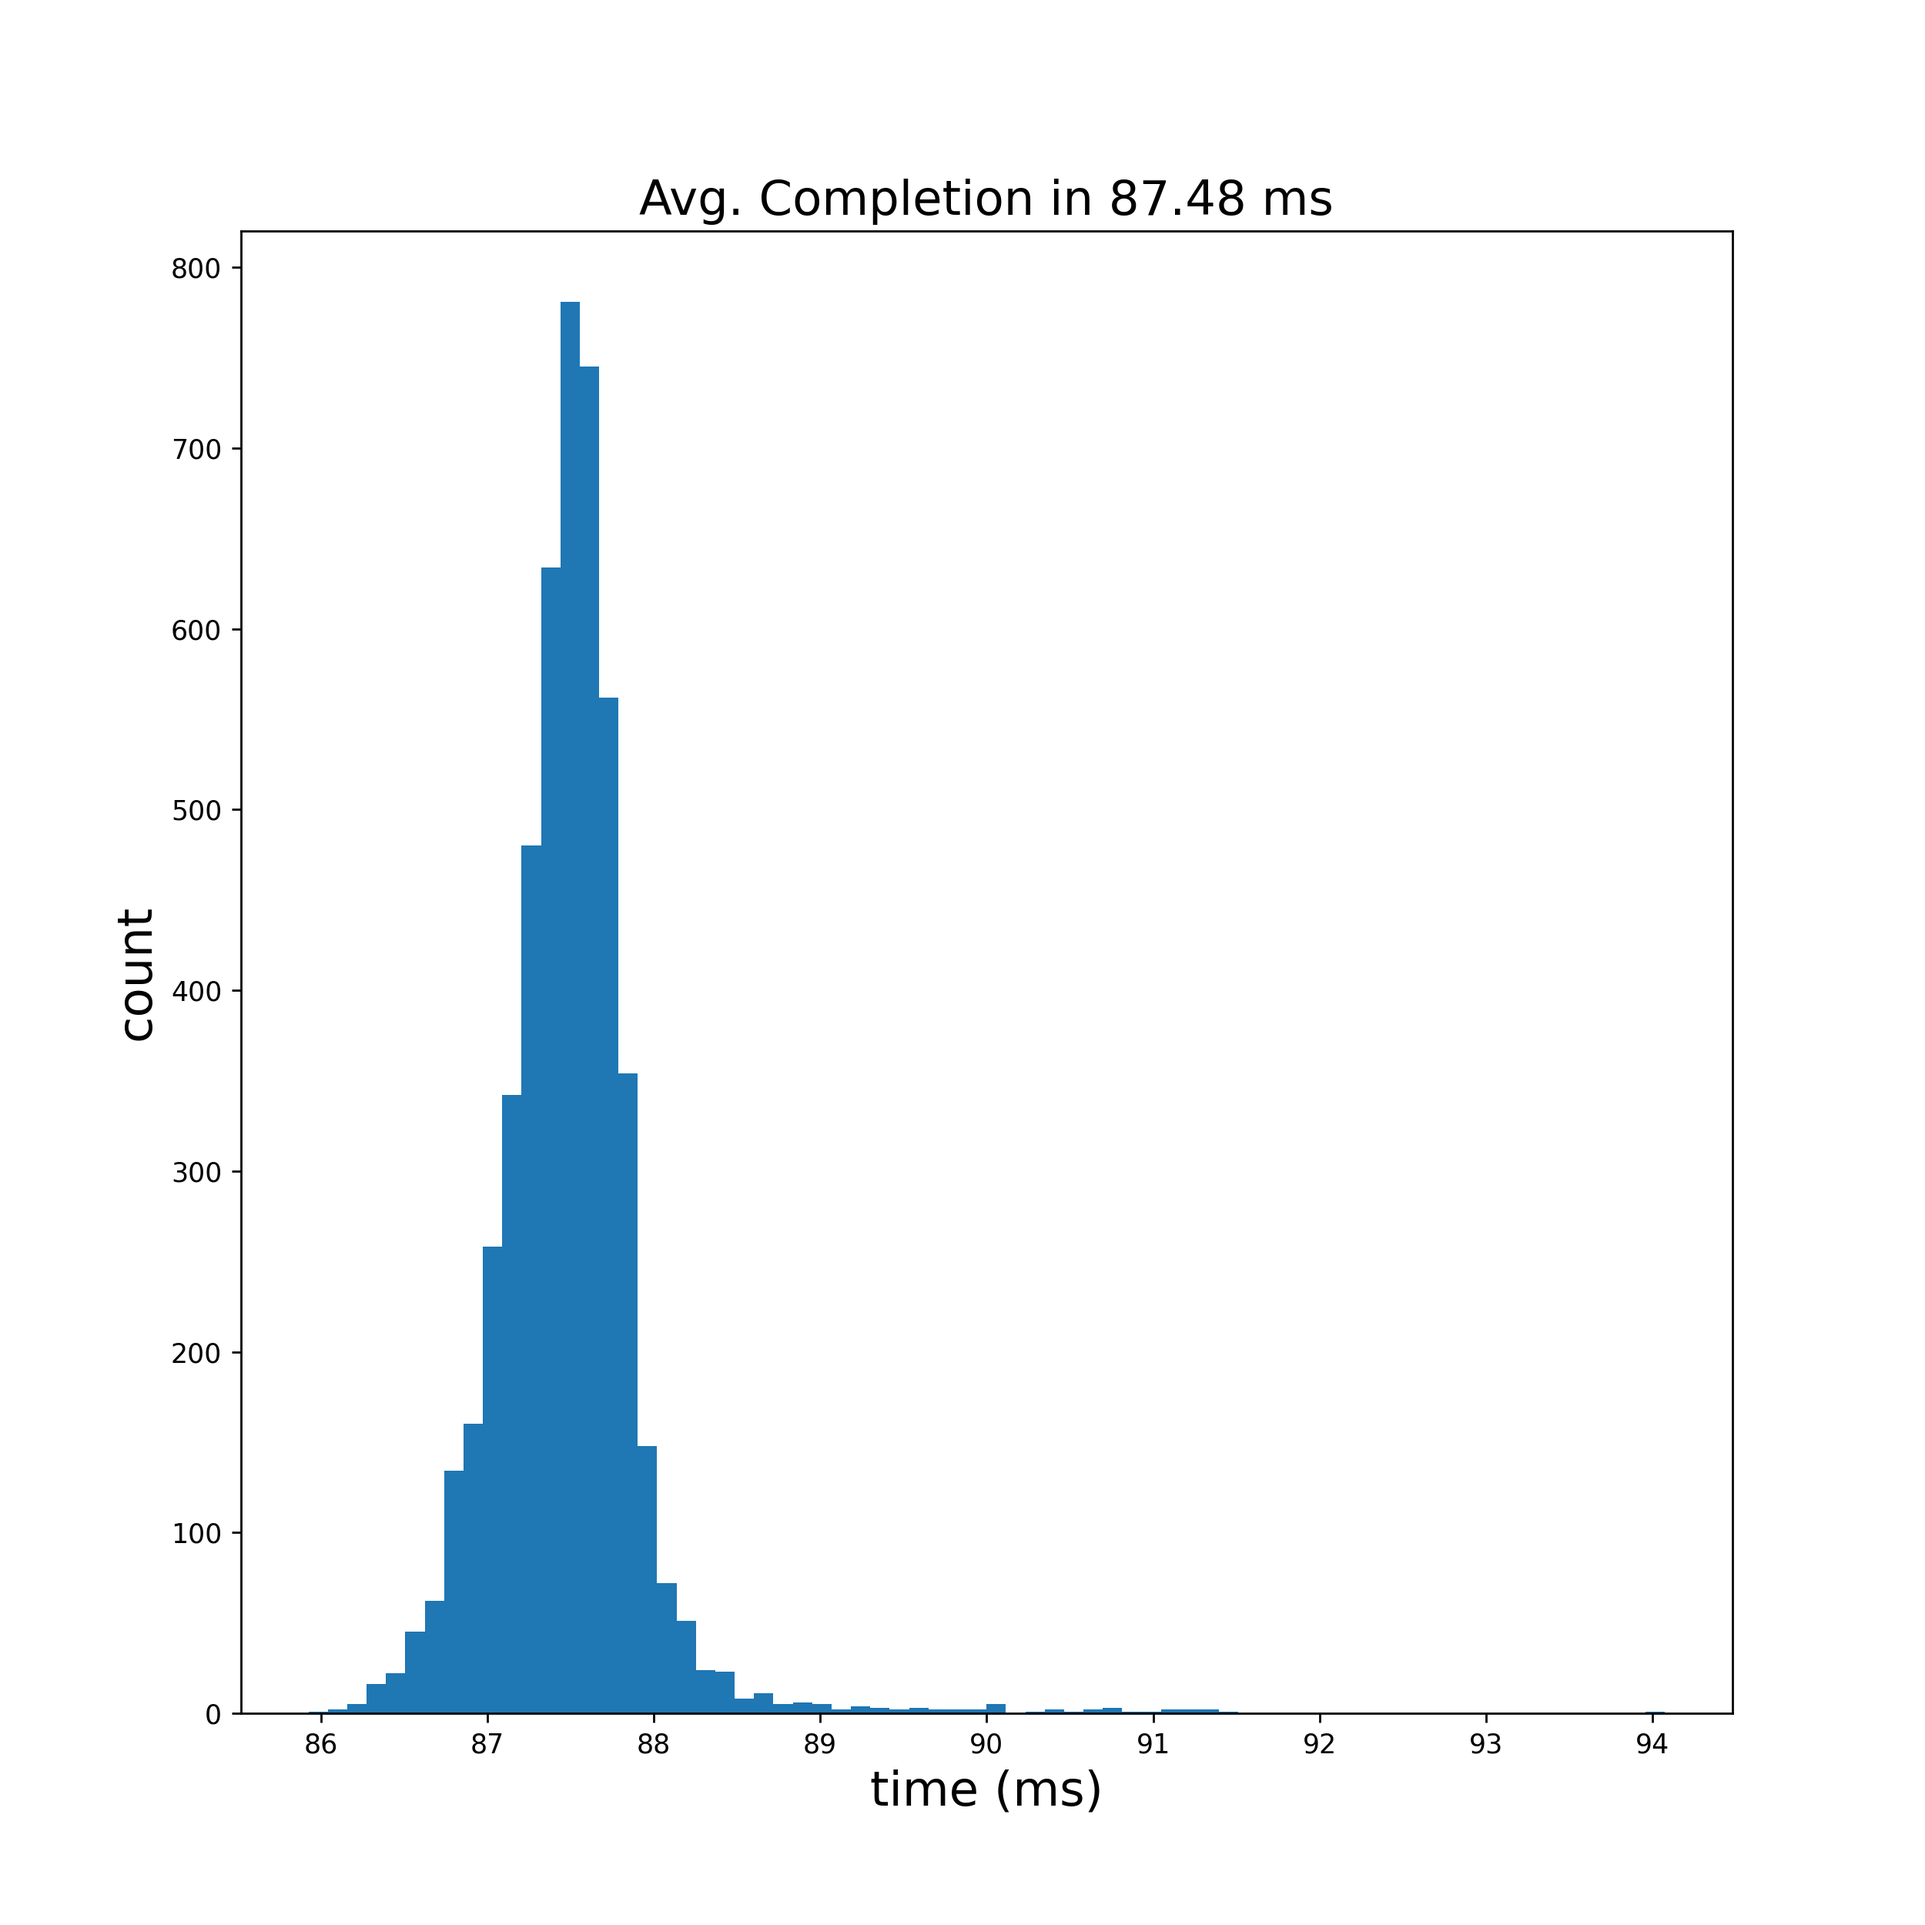
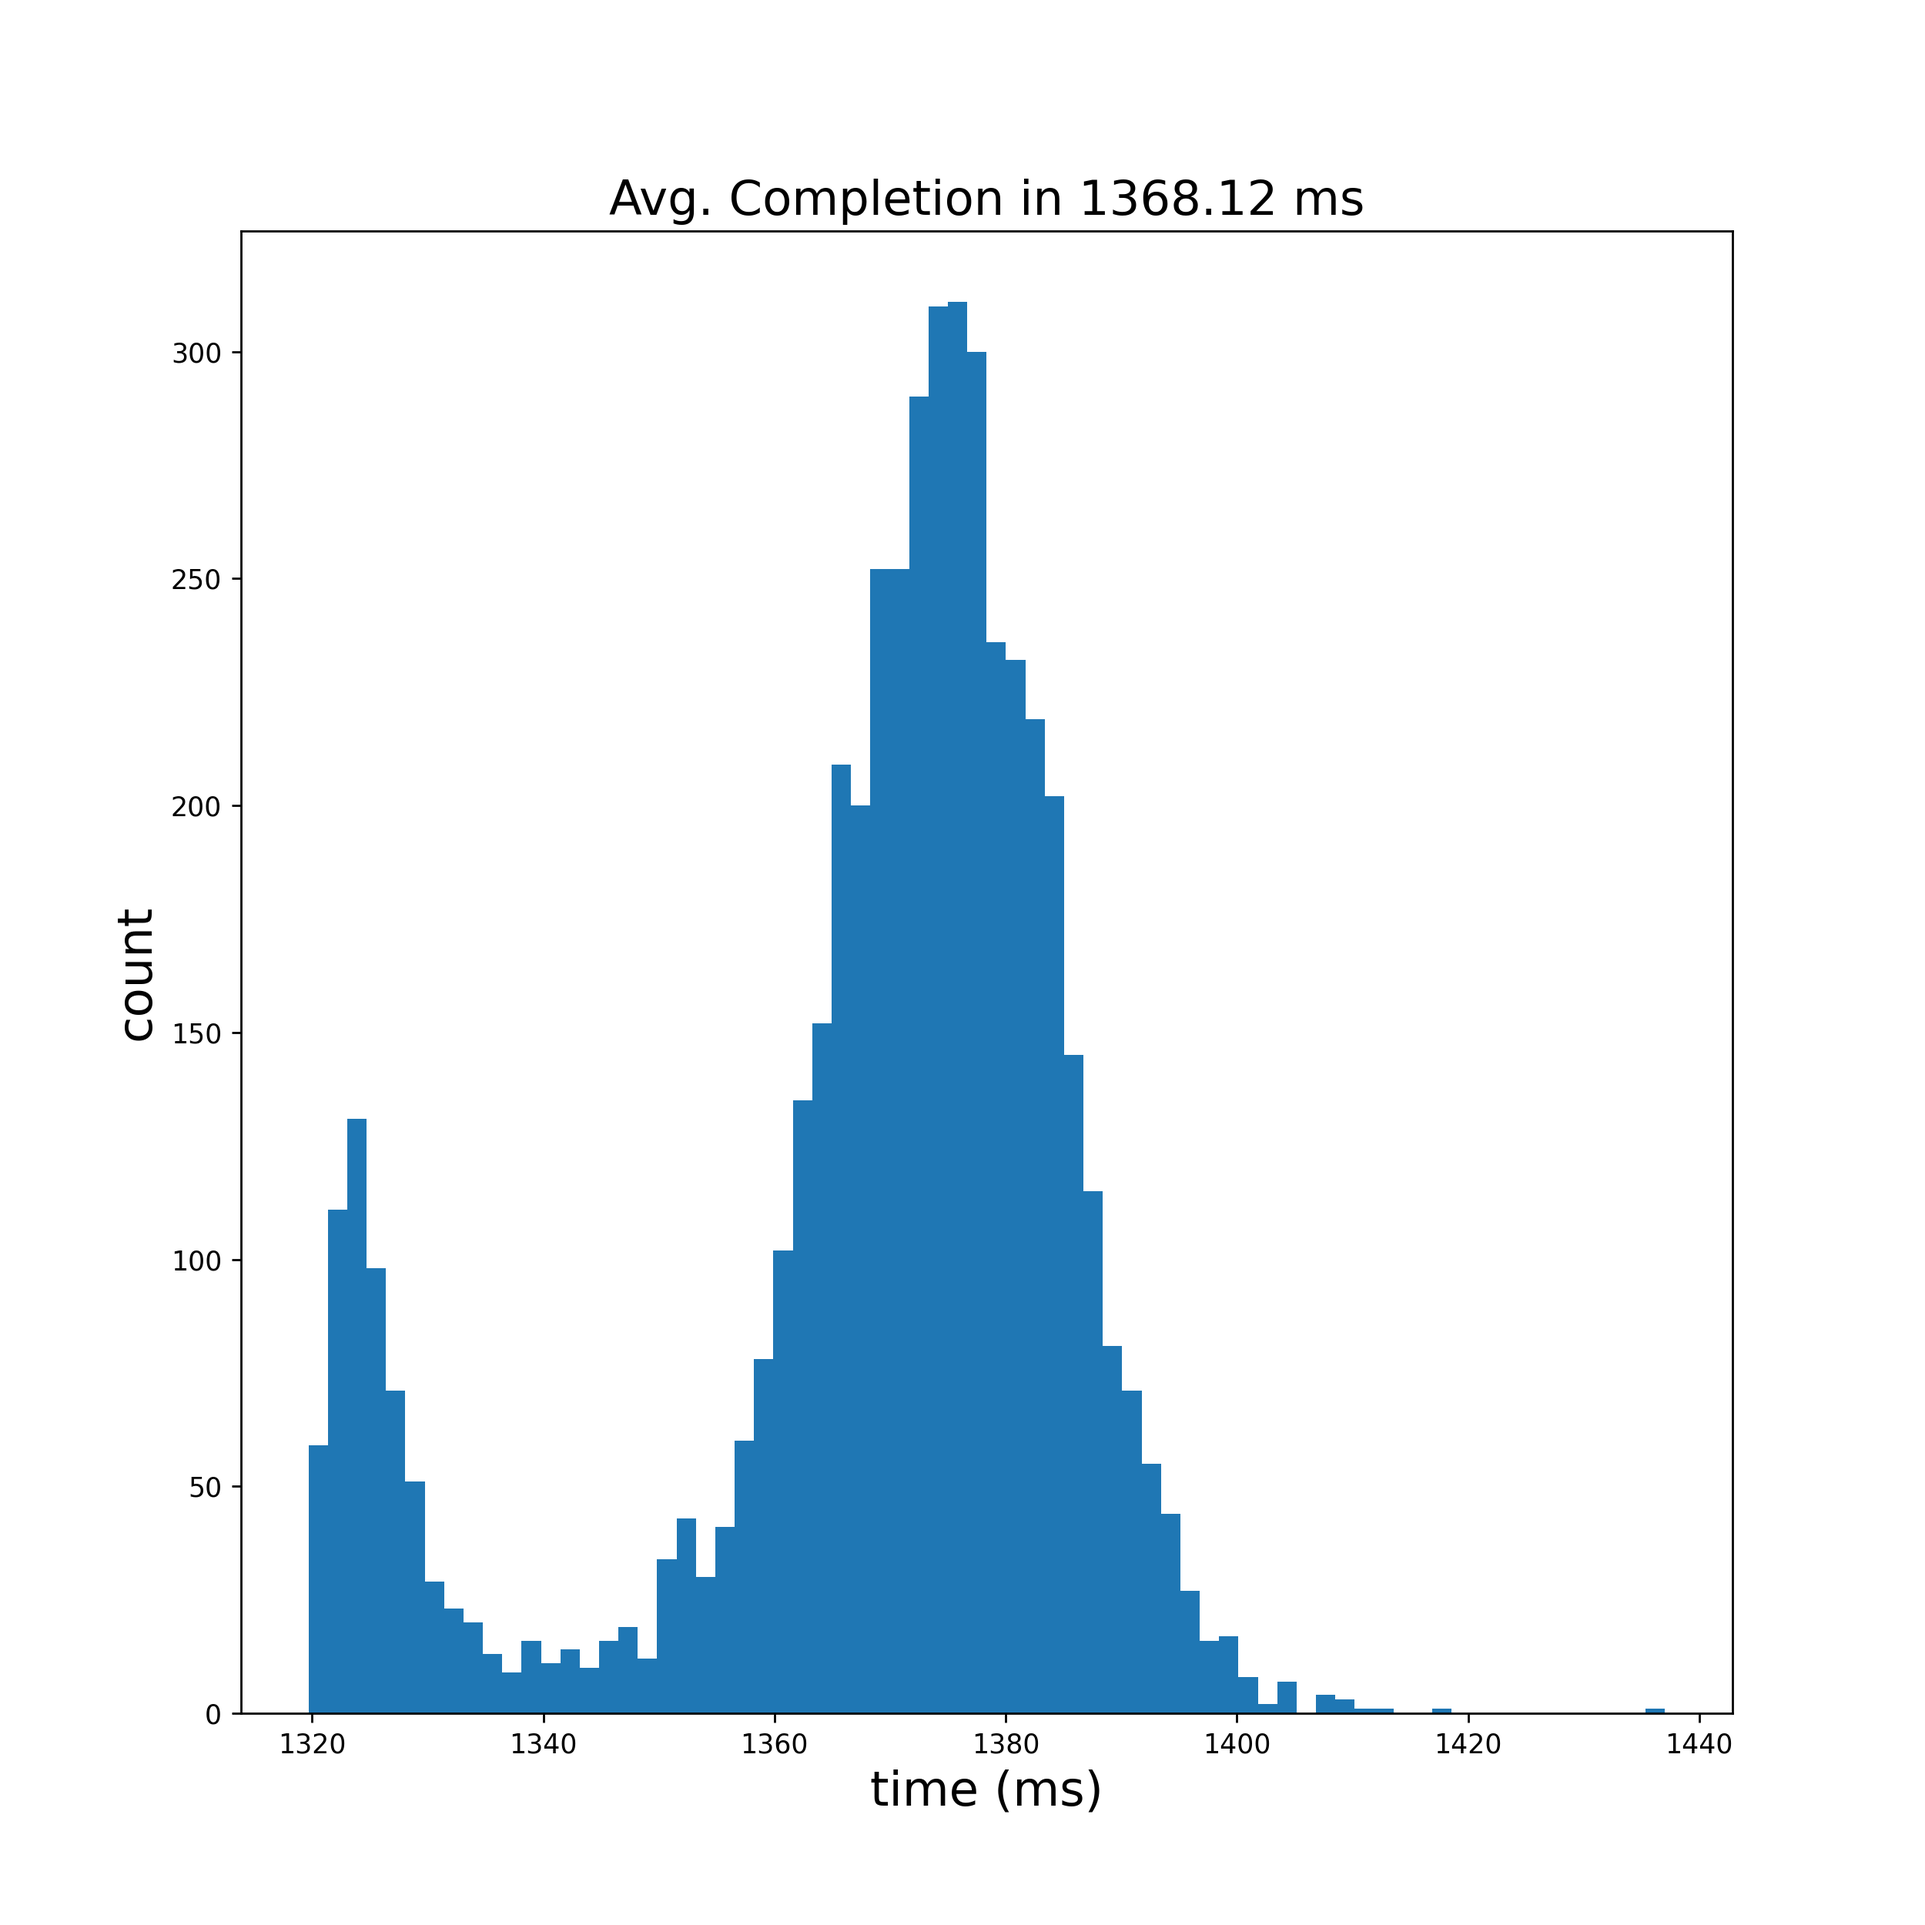
Resolved branch and got back timing numbers

diff --git a/fluid_cpp/main.cpp b/fluid_cpp/main.cpp
@@ -9,11 +9,9 @@ int main() {
     int num_y_bins = 41;
     float width = 1.0;
     float height = 1.0;
+    NavierStokesSolver<float> solver(num_x_bins, num_y_bins, width, height);
 
-
-
-    NavierStokesSolver<double> solver(num_x_bins, num_y_bins, width, height);
-
+    // entire specific constants of the simulation
     solver.density = 1.0;
     solver.kinematic_viscosity = 0.1;
     solver.num_iterations = 1000;
@@ -38,9 +36,9 @@ int main() {
 
     // Solve and retrieve the solution
     solver.solve();
-    double* u_values = static_cast<double*>(malloc(sizeof(double) * num_x_bins * num_y_bins));
-    double* v_values = static_cast<double*>(malloc(sizeof(double) * num_x_bins * num_y_bins));
-    double* p_values = static_cast<double*>(malloc(sizeof(double) * num_x_bins * num_y_bins));
+    auto* u_values = static_cast<float*>(malloc(sizeof(float) * num_x_bins * num_y_bins));
+    auto* v_values = static_cast<float*>(malloc(sizeof(float) * num_x_bins * num_y_bins));
+    auto* p_values = static_cast<float*>(malloc(sizeof(float) * num_x_bins * num_y_bins));
     solver.getUValues(u_values);
     solver.getVValues(v_values);
     solver.getPValues(p_values);
@@ -53,10 +51,9 @@ int main() {
     std::ofstream p_file;
     p_file.open("CppPValues.float.dat", std::ios::binary);
     for (int i = 0; i < num_x_bins * num_y_bins; i++) {
-        u_file.write(reinterpret_cast<const char *>(&u_values[i]), sizeof(double));
-        v_file.write(reinterpret_cast<const char *>(&v_values[i]), sizeof(double));
-        p_file.write(reinterpret_cast<const char *>(&p_values[i]), sizeof(double));
-        // std::cout << "Values: " << u_values[i] << " :: " << v_values[i] << " :: " << p_values[i] << std::endl;
+        u_file.write(reinterpret_cast<const char *>(&u_values[i]), sizeof(float));
+        v_file.write(reinterpret_cast<const char *>(&v_values[i]), sizeof(float));
+        p_file.write(reinterpret_cast<const char *>(&p_values[i]), sizeof(float));
     }
 
     // clean up
@@ -66,12 +63,10 @@ int main() {
     free(u_values);
     free(v_values);
     free(p_values);
-    return 0;
-
 
     // run time trials for the solver
     int num_time_trials = 5000;
-    float* benchmarks = static_cast<float*>(malloc(sizeof(float) * num_time_trials));
+    auto* benchmarks = static_cast<float*>(malloc(sizeof(float) * num_time_trials));
     float compute_time_ms = 0.;
     for (int i = 0; i < num_time_trials; i++) {
         auto start = std::chrono::high_resolution_clock::now();

diff --git a/fluid_cpp/cpp/NavierStokesSolver.cpp b/fluid_cpp/cpp/NavierStokesSolver.cpp
@@ -90,18 +90,15 @@ void NavierStokesSolver<T>::solve() {
 
         // take a series of poisson steps to approximate the pressure in each cell
         for (int j = 0; j < this->num_poisson_iterations; j++) {
+            // compute the Poisson step, enforce BCs, and enforce the pressure
             this->computePoissonStepApproximation();
-
             this->enforcePressureBoundaryConditions();
             this->updatePressure();
         }
 
-        // get the pressure central difference, and set the u and v values
+        // get the pressure central difference, correct the u and v values, and enforce BCs
         this->computePressureCentralDifference();
-
-        // get the pressure central difference, and set the u and v values
         this->correctVelocityEstimates();
-
         this->enforceVelocityBoundaryConditions();
     }
 }
